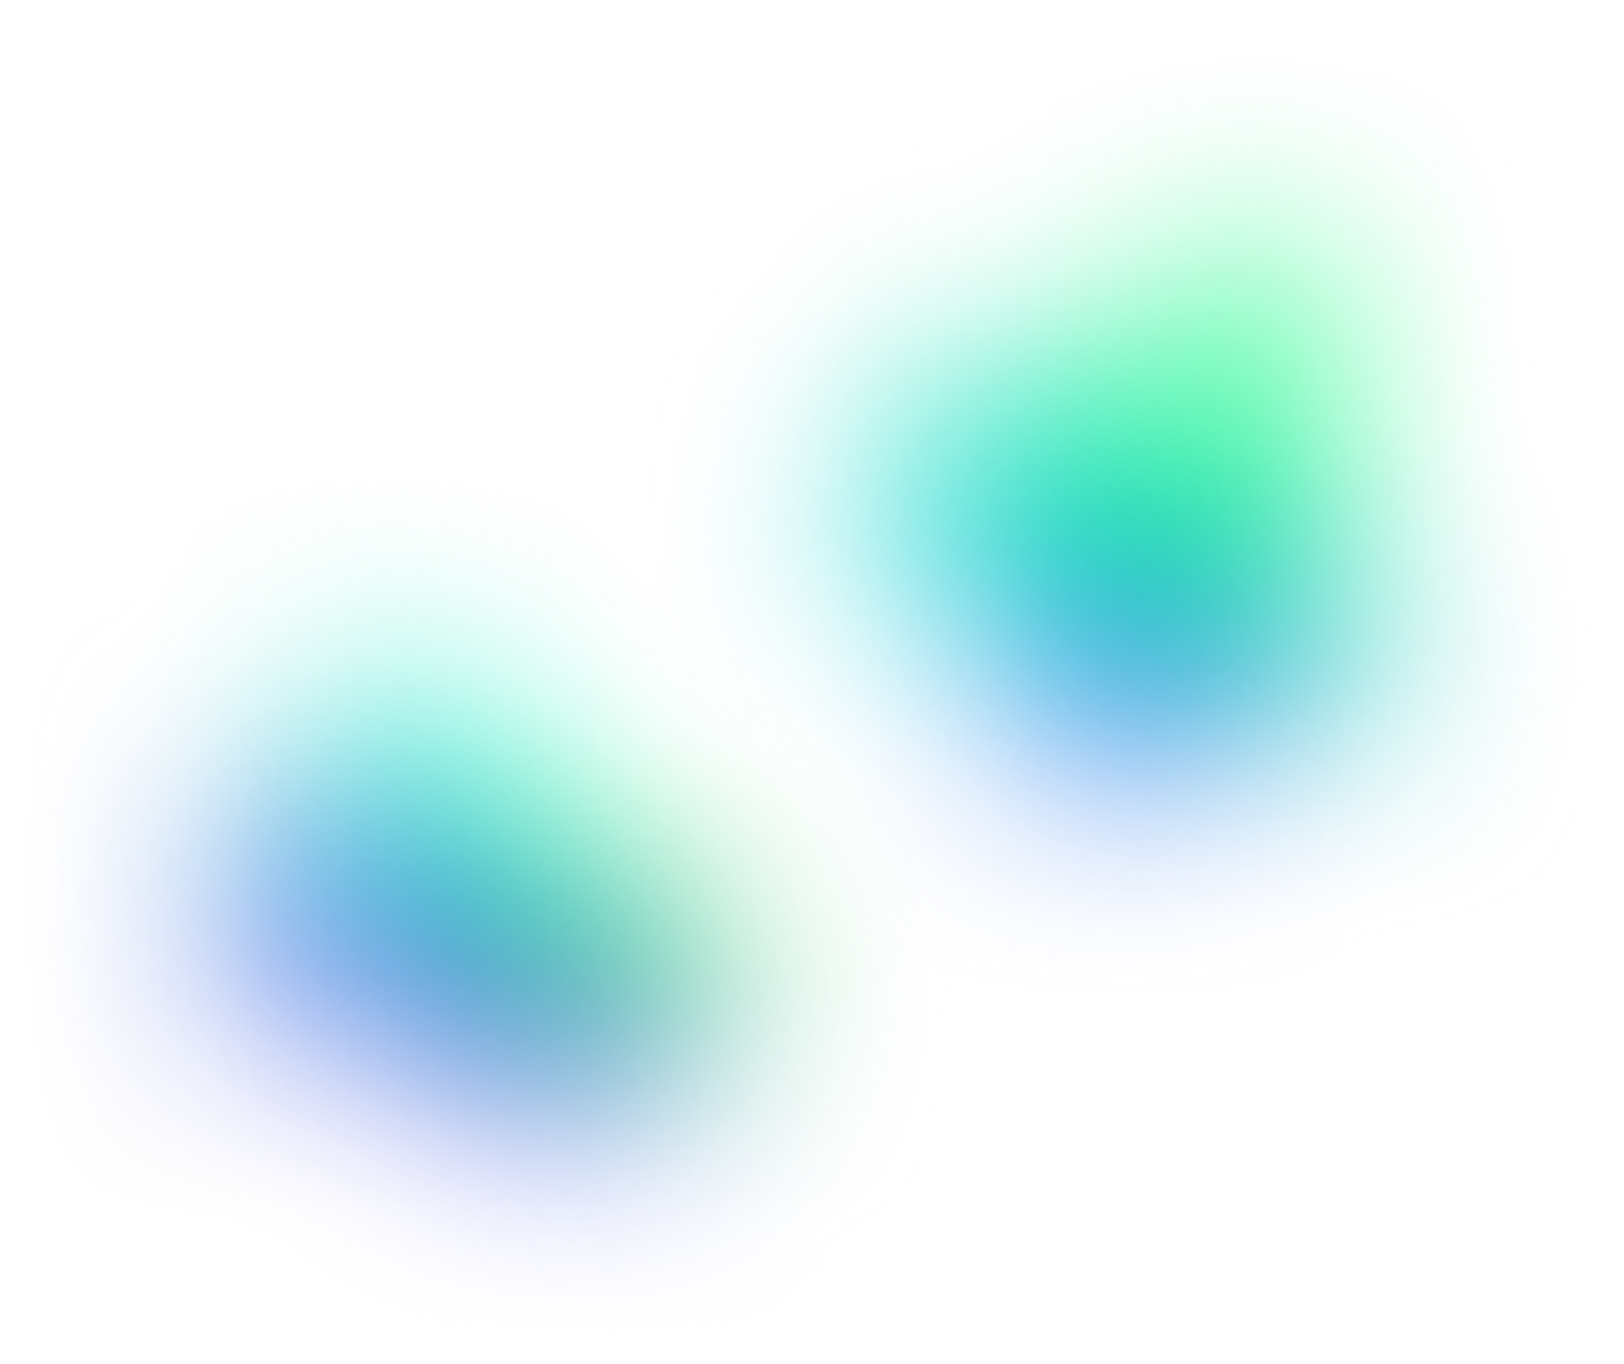
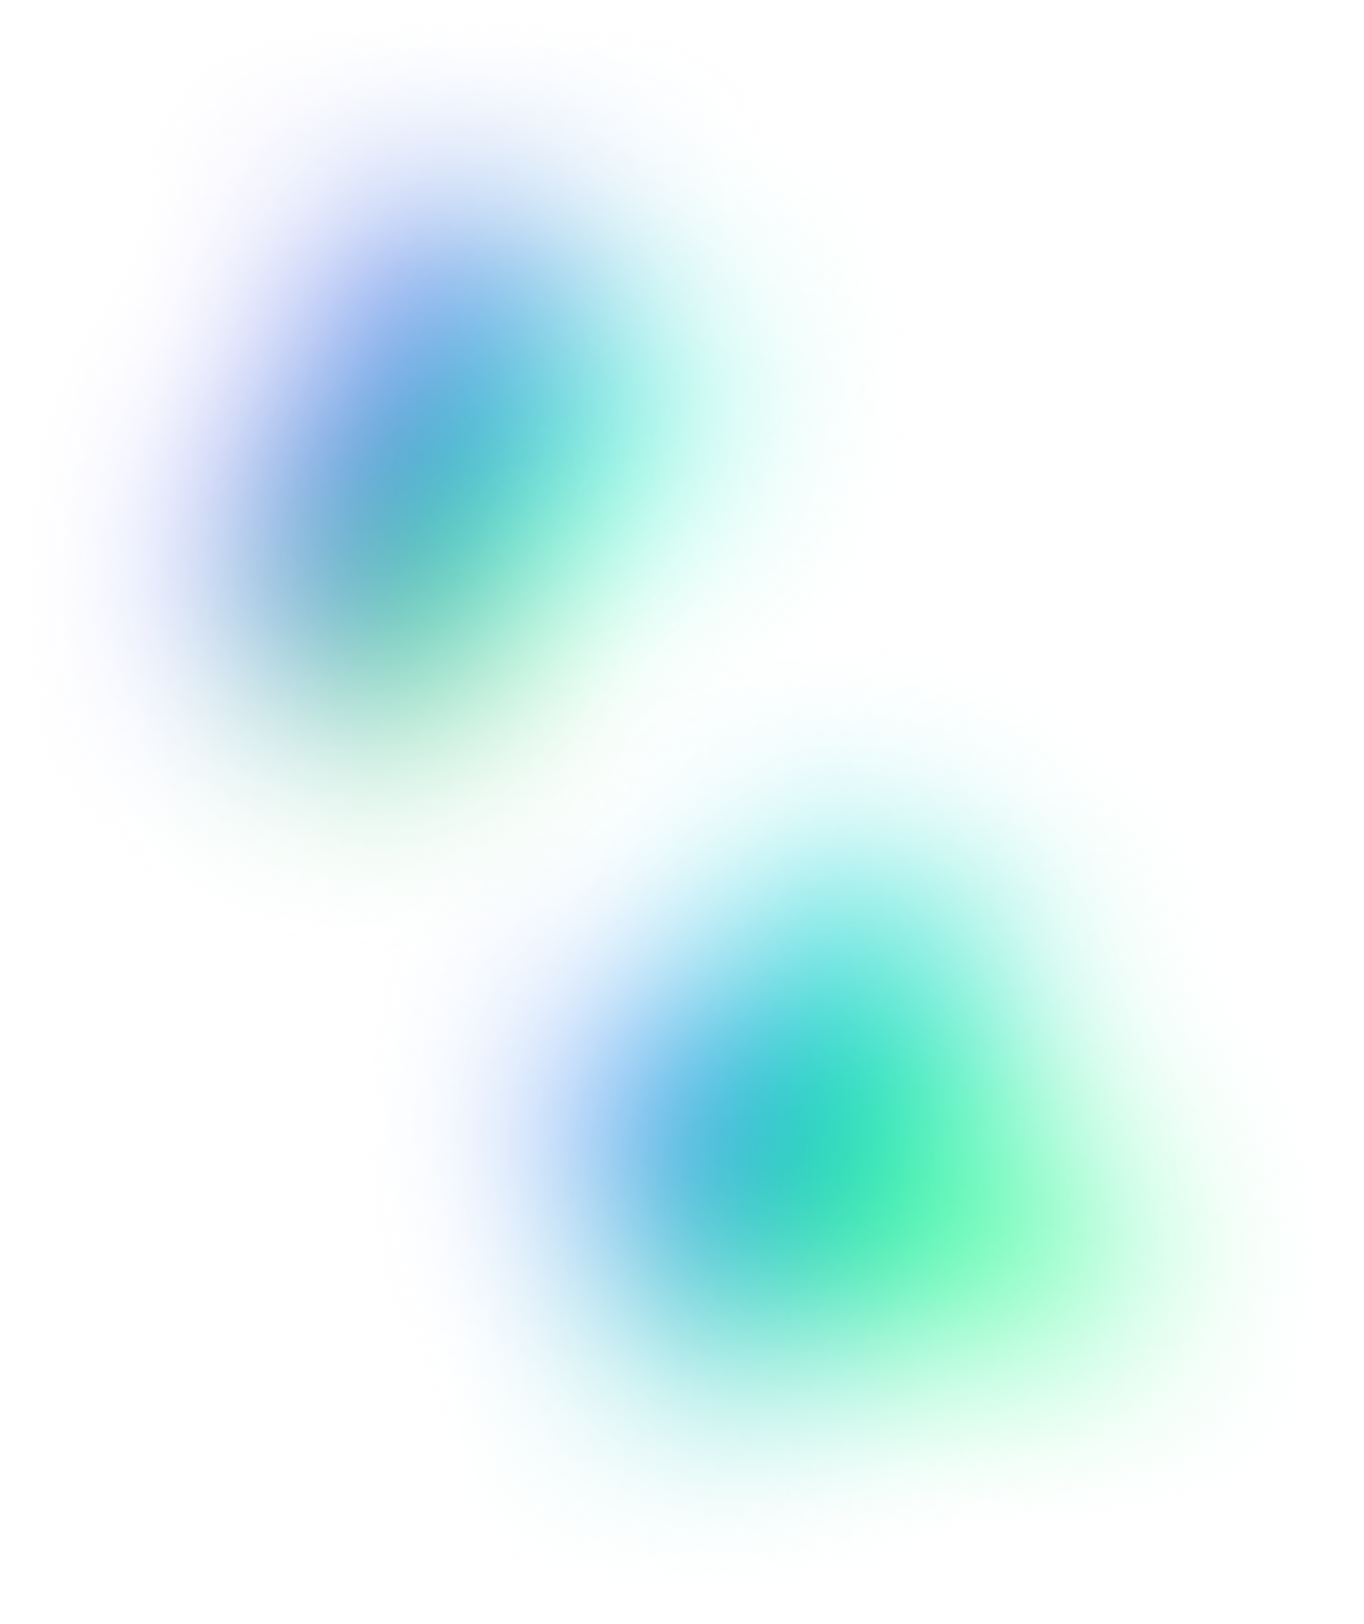
feat: update background images for body styling; adjust media queries for responsiveness

diff --git a/style.css b/style.css
@@ -26,7 +26,7 @@ html {
 body {
   background: var(--bg-color);
   color: var(--text-color);
-  background-image: url(assets/bg-green-mobile.png);
+  background-image: url(assets/bg-green.png);
   background-size: cover;
 }
 
@@ -506,6 +506,7 @@ section.projects {
 }
 
 @media (max-width: 1200px) {
+
   html {
     font-size: 50%;
   }
@@ -581,6 +582,10 @@ section.projects {
 }
 
 @media (max-width: 991px) {
+  body {
+    background-image: url(assets/bg-green-mobile.png);
+  }
+
   html {
     font-size: 57%;
   }
